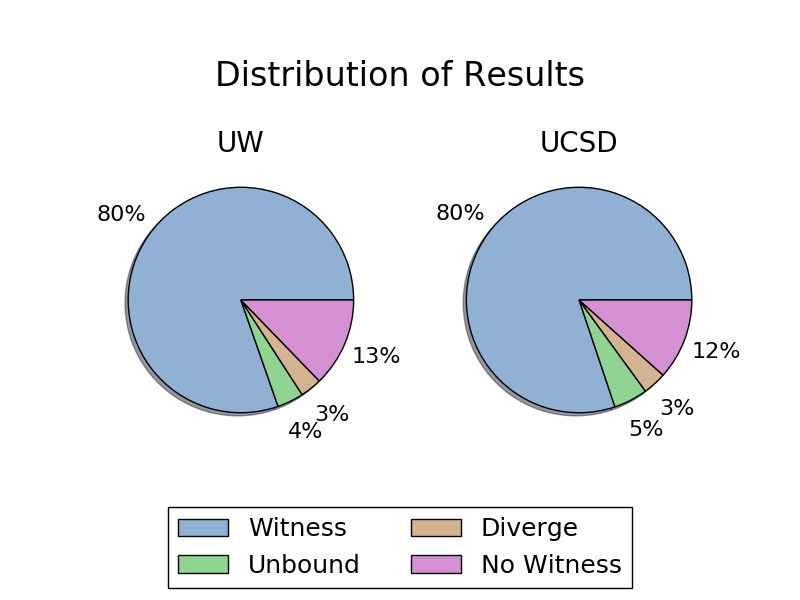
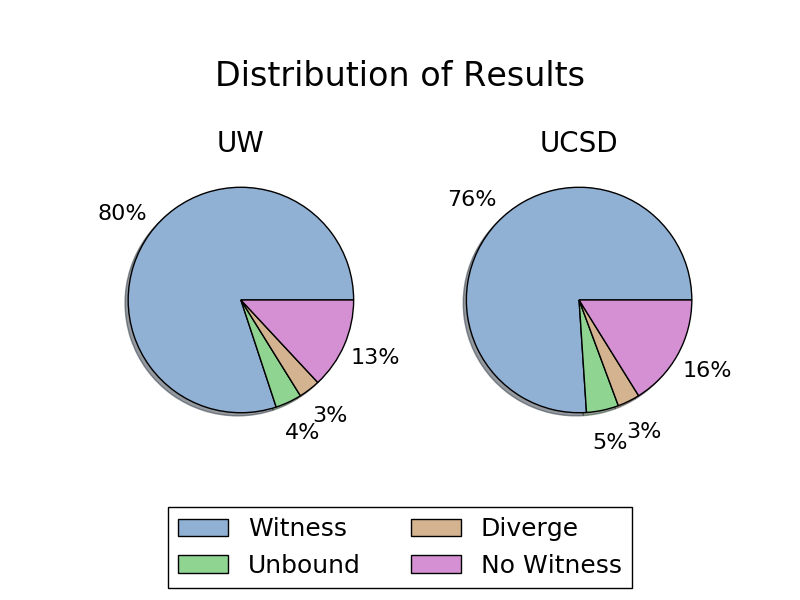
some text

diff --git a/paper/jfp-submission/safe.tex b/paper/jfp-submission/safe.tex
@@ -65,17 +65,66 @@ by symbolic execution.
 Overall, it appears that our random instantiation of holes is well-suited
 to finding type errors in student programs.
 
-We categorized the remaining 42 failures into four groups:
+We categorized the remaining 42 failures into four groups.
+
+\paragraph{Dead Code}
 %
-\begin{enumerate}
-\item 7 infinite type. program doesn't go wrong, but could search for
-  context that would go wrong
-\item 15 monomorphic functions. recall we abstract a function's type as
-  $\tfun$ rather than $\alpha \to \beta$. (may also admit witness by
-  searching for context?)
-\item 6 dead code. type error occurs in unreachable code, ``deficiency''
-  of the type system.
-\item 14 bad call. function is well-typed, student calls makes ill-typed
-  call, but no error triggered. nothing to be done, as we do not control
-  call-site.
-\end{enumerate}
+Six programs (or 12\% the samples) contained type errors that were
+unreachable by any inputs.
+%
+While technically safe, dead code is generally considered a ``code
+smell''; students would likely benefit from a warning in this case.
+
+\paragraph{Bad Function Call}
+Fourteen programs contained a function call where the student had
+supplied incorrect inputs, yet no error was triggered.
+%
+Consider, for example the following |assoc| function, which
+looks up a key in an \emph{association list} and returns a default if
+the key cannot be found.
+%
+\begin{code}
+  let rec assoc (d, k, l) = match l with
+    | (ki, vi)::tl ->
+       if ki = k then
+         vi
+       else
+         assoc (d, k, tl)
+    | _ -> d
+
+  let _ = assoc ([], 123, [(123, "sad"); (321, "happy")])
+\end{code}
+%
+The student's definition of |assoc| is correct, but \ocaml rejects their
+subsequent call because the default value |[]| is incompatible with the
+|string| values in the list.
+%
+In this particular call, the key |123| is in the list, so the default
+will not be used (and even if it were, no error would be triggered) and
+\ocaml's complaint is moot.
+%
+Of course, \ocaml cannot be expected to know that this particular call
+is safe, its type system is not sophisticated enough to express the
+necessary conditions.
+
+We note that all of the programs in this category appear to come from
+interactions with the \ocaml top-level, \ie the student defined a
+function and is now experimenting with it.
+%
+These calls are thus particularly harmless, indeed they may even be
+\emph{beneficial}, as the student may next try looking up a key that
+\emph{does not} exist, and realize that the returned values are
+incompatible.
+
+% \begin{enumerate}
+% \item 7 infinite type. program doesn't go wrong, but could search for
+%   context that would go wrong
+% \item 15 monomorphic functions. recall we abstract a function's type as
+%   $\tfun$ rather than $\alpha \to \beta$. (may also admit witness by
+%   searching for context?)
+% \item 6 dead code. type error occurs in unreachable code, ``deficiency''
+%   of the type system.
+% \item 14 bad call. function is well-typed, student calls makes ill-typed
+%   call, but no error triggered. nothing to be done, as we do not control
+%   call-site.
+% \end{enumerate}

diff --git a/paper/jfp-submission/plots.py b/paper/jfp-submission/plots.py
@@ -9,14 +9,14 @@ BUCKETS = [0.1, 0.2, 1.0, 10.0, 60.0 ] # range(500, 3001, 500)
 COLORS=['#90B0D4', '#90D492', '#D4B490', '#D490D2']
 #COLORS=['#348ABD', '#7A68A6', '#A60628', '#467821', '#CF4457', '#188487', '#E24A33']
 
-SAFE = ['S', 'T']
-SAFE_L = ['Safe', 'Timeout']
+SAFE = ['S', 'T', 'H']
+SAFE_L = ['Safe', 'Timeout', 'Hole']
 UNSAFE = ['U', 'B', 'D'] #, 'O']
 UNSAFE_L = ['Unsafe', 'Unbound', 'Diverge'] #, 'Output']
 ALL = UNSAFE + SAFE
 ALL_L = UNSAFE_L + SAFE_L
 
-ALL_D = [ ['U'], ['B'], ['D'], ['S', 'T']]
+ALL_D = [ ['U', 'O'], ['B'], ['D'], ['S', 'T', 'H']]
 ALL_DL = [ 'Witness', 'Unbound', 'Diverge', 'No Witness'] #   ['S', 'T'], ['U'], ['B'], ['D'] ]
 
 
